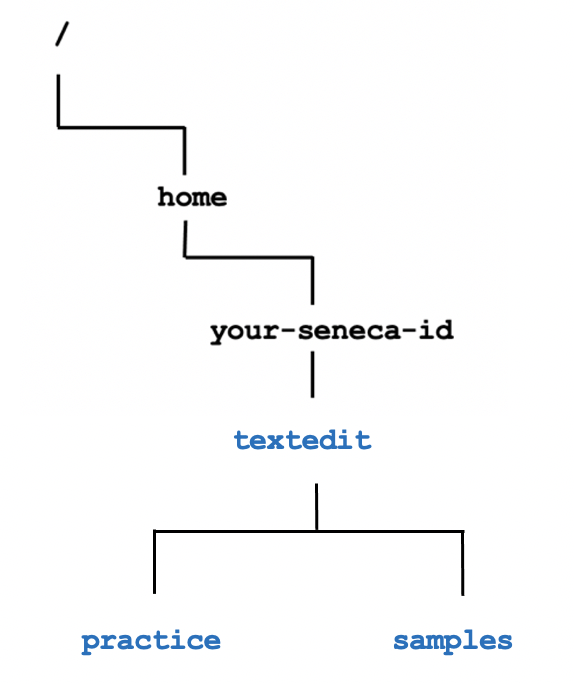
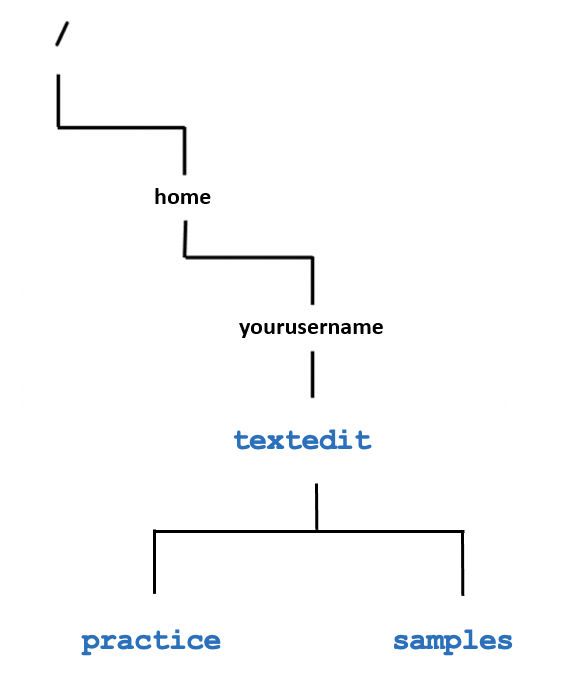
Lab 2: Finished updating content.

Changed region(s): [[0.3554, 0.4605, 0.7997, 0.5219], [0.2666, 0.2763, 0.4146, 0.307]]

diff --git a/lab2.md b/lab2.md
@@ -53,9 +53,7 @@ description: Unix/Linux File Management
 
 **Links:**
 
-| [ln](http://man7.org/linux/man-pages/man1/ln.1.html) |
-| :--------------------------------------------------- |
-
+- [ln](http://man7.org/linux/man-pages/man1/ln.1.html)
 - [Hard Links](http://www.linfo.org/hard_link.html#:~:text=A%20hard%20link%20is%20merely,created%20to%20other%20hard%20links.)
 - [Symbolic Links](https://www.computerhope.com/jargon/s/symblink.htm#:~:text=Alternatively%20referred%20to%20as%20a,or%20directory%20using%20its%20path.&text=In%20Linux%20and%20Unix%20symbolic,created%20using%20the%20mklink%20command.)
 
@@ -429,9 +427,9 @@ rm -ri files
 
 Since IT students will be working in the Unix / Linux command line environment, it is useful to learn a least two common command-line **text editors.**
 
-Although **programming students** can use **graphical IDE's** to code and compile programs, they can **create source code** using a text editor and **compile their source code** on Linux systems to generate executable programs (without having to transfer them for compilation or execution).
+Although **programmers** can use **graphical IDE's** to code and compile programs, they can **create source code** using a text editor and **compile their source code** on Linux systems to generate executable programs (without having to transfer them for compilation or execution).
 
-**Networking and Tech Support students** can use a text editor to **edit configuration files**. These students in upper grades will become familiar with the process of installing, configuring, and running network services and text editors are an important tools to help setup but also "tweak" or make **periodic changes in networking services configuration.**
+**Network Administrators** can use a text editor to **edit configuration files**. In later courses you will become familiar with the process of installing, configuring, and running network services and text editors are an important tools to help setup but also "tweak" or make **periodic changes in networking services configuration.**
 
 The two most readily-available command line text editors in Linux are **Nano** and **vi**. The Nano text editor would seem like an easier-to-use text editor, but vi (although taking longer to learn) has outstanding features and allow the user to be more productive with editing text files.
 
